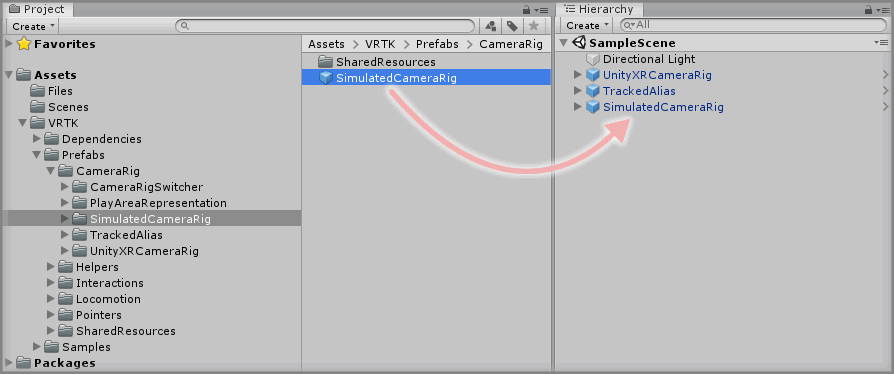
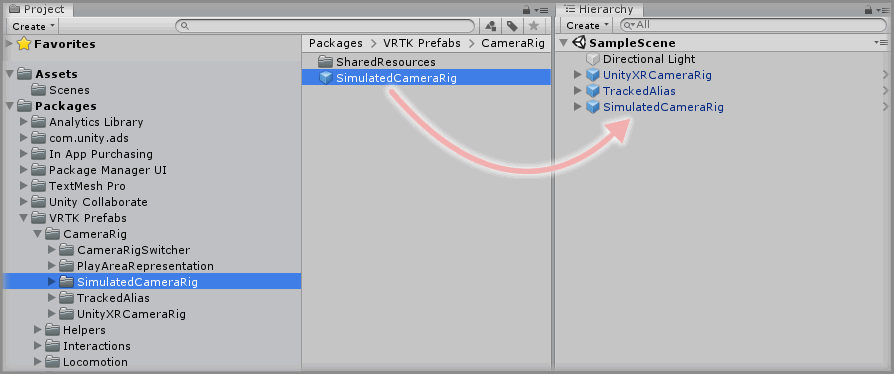
fix(HowToGuides): update adding simulated CameraRig guide
Update the guide to show the steps for needing the new VRTK Prefabs
repository.

Changed region(s): [[0.0, 0.1765, 0.3624, 1.0], [0.3322, 0.0882, 0.604, 0.1471]]

diff --git a/Documentation/HowToGuides/CameraRigs/AddingTheSimulatedCameraRig/README.md b/Documentation/HowToGuides/CameraRigs/AddingTheSimulatedCameraRig/README.md
@@ -28,7 +28,7 @@ The outcome of this guide is to learn how to add the Simulated CameraRig prefab 
 
 ### Step 1
 
-Expand the VRTK directory in the Unity Project window until the `VRTK -> Prefabs -> CameraRig -> SimulatedCameraRig` directory is visible and select the `SimulatedCameraRig` directory so the contents are displayed.
+Expand the VRTK Prefabs Package directory in the Unity Project window until the `Prefabs -> VRTK Prefabs -> CameraRig -> SimulatedCameraRig` directory is visible and select the `SimulatedCameraRig` directory so the contents are displayed.
 
 ![Unity Project Window](assets/images/UnityProjectWindow.png)
 
